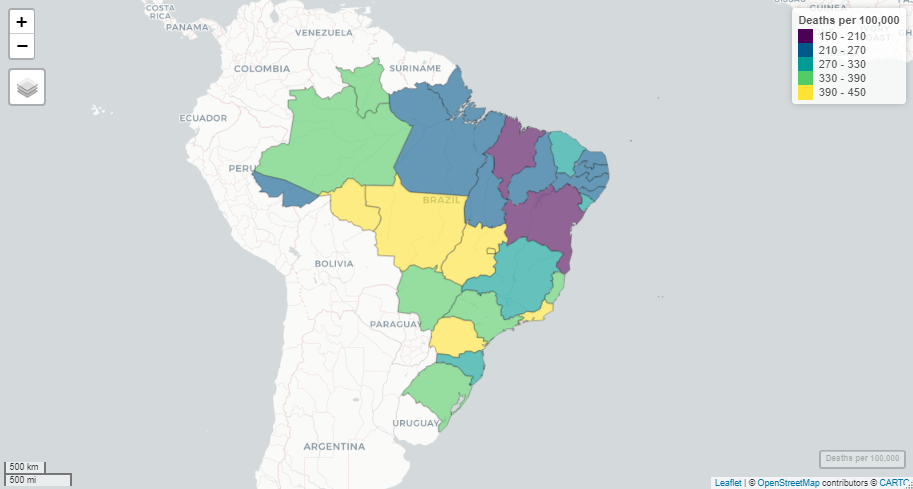
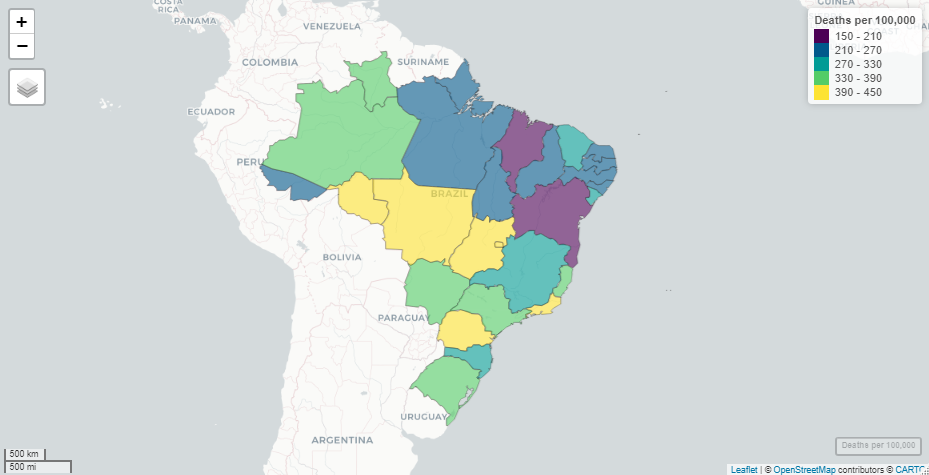
Update README file

diff --git a/README.md b/README.md
@@ -20,14 +20,14 @@ accumulated cases and accumulated deaths for the COVID-19 pandemic in
 Brazil. The information available in the package is organized as
 follows:
 
--   `brazil_total` - Dataset with information about the new Coronavirus
-    (COVID-19) for Brazil as a whole
--   `brazil_region` - Dataset with information on the new Coronavirus
-    (COVID-19) for the five regions of Brazil
--   `brazil_state` - Information on the new Coronavirus (COVID-19) for
-    the twenty-seven Federative Units of Brazil
--   `brazil_municipality` - Information on the new Coronavirus
-    (COVID-19) for the 5,570 municipalities in Brazil
+- `brazil_total` - Dataset with information about the new Coronavirus
+  (COVID-19) for Brazil as a whole
+- `brazil_region` - Dataset with information on the new Coronavirus
+  (COVID-19) for the five regions of Brazil
+- `brazil_state` - Information on the new Coronavirus (COVID-19) for the
+  twenty-seven Federative Units of Brazil
+- `brazil_municipality` - Information on the new Coronavirus (COVID-19)
+  for the 5,570 municipalities in Brazil
 
 ## Base limitation:
 
@@ -106,7 +106,7 @@ Saude (SUS)](https://www.gov.br/saude/pt-br). Data are available as of
 ## Cases accumulated per 100,000 inhabitants
 
 The graph below shows the number of cases accumulated in each Federative
-Unit of Brazil per 100,000 inhabitants (data for the day 2022-11-11).
+Unit of Brazil per 100,000 inhabitants (data for the day 2022-11-18).
 
 Data source: [Ministerio da Saude - Sistema Unico de Saude
 (SUS)](https://www.gov.br/saude/pt-br)
@@ -118,8 +118,9 @@ inhabitants for each of the five macro-regions in Brazil.
 
 <img src="man/figures/cases100.png" width="100%" />  
 
-The next graph refers to the number of cases accumulated per 100,000
-inhabitants for the state Minas Gerais (data for the day 2022-11-11).
+The next graph refers to the number of accumulated cases per 100,000
+inhabitants for the 853 municipalities in the state Minas Gerais (data
+for the day 2022-11-18).
 
 <img src="man/figures/mgCases100.png" width="100%" />
 
@@ -127,7 +128,7 @@ inhabitants for the state Minas Gerais (data for the day 2022-11-11).
 
 In turn, the next graph shows the number of deaths accumulated in each
 Federative Unit of Brazil per 100,000 inhabitants (data for the day
-2022-11-11).
+2022-11-18).
 
 Data source: [Ministerio da Saude - Sistema Unico de Saude
 (SUS)](https://www.gov.br/saude/pt-br)
@@ -140,7 +141,8 @@ inhabitants for each of Brazil’s five macro-regions.
 <img src="man/figures/deaths100.png" width="100%" />  
 
 The next graph refers to the number of accumulated deaths per 100,000
-inhabitants for state of Minas Gerais (data for the day 2022-11-11).
+inhabitants for the 853 municipalities in the state of Minas Gerais
+(data for the day 2022-11-18).
 
 <img src="man/figures/mgDeaths100.png" width="100%" />
 
